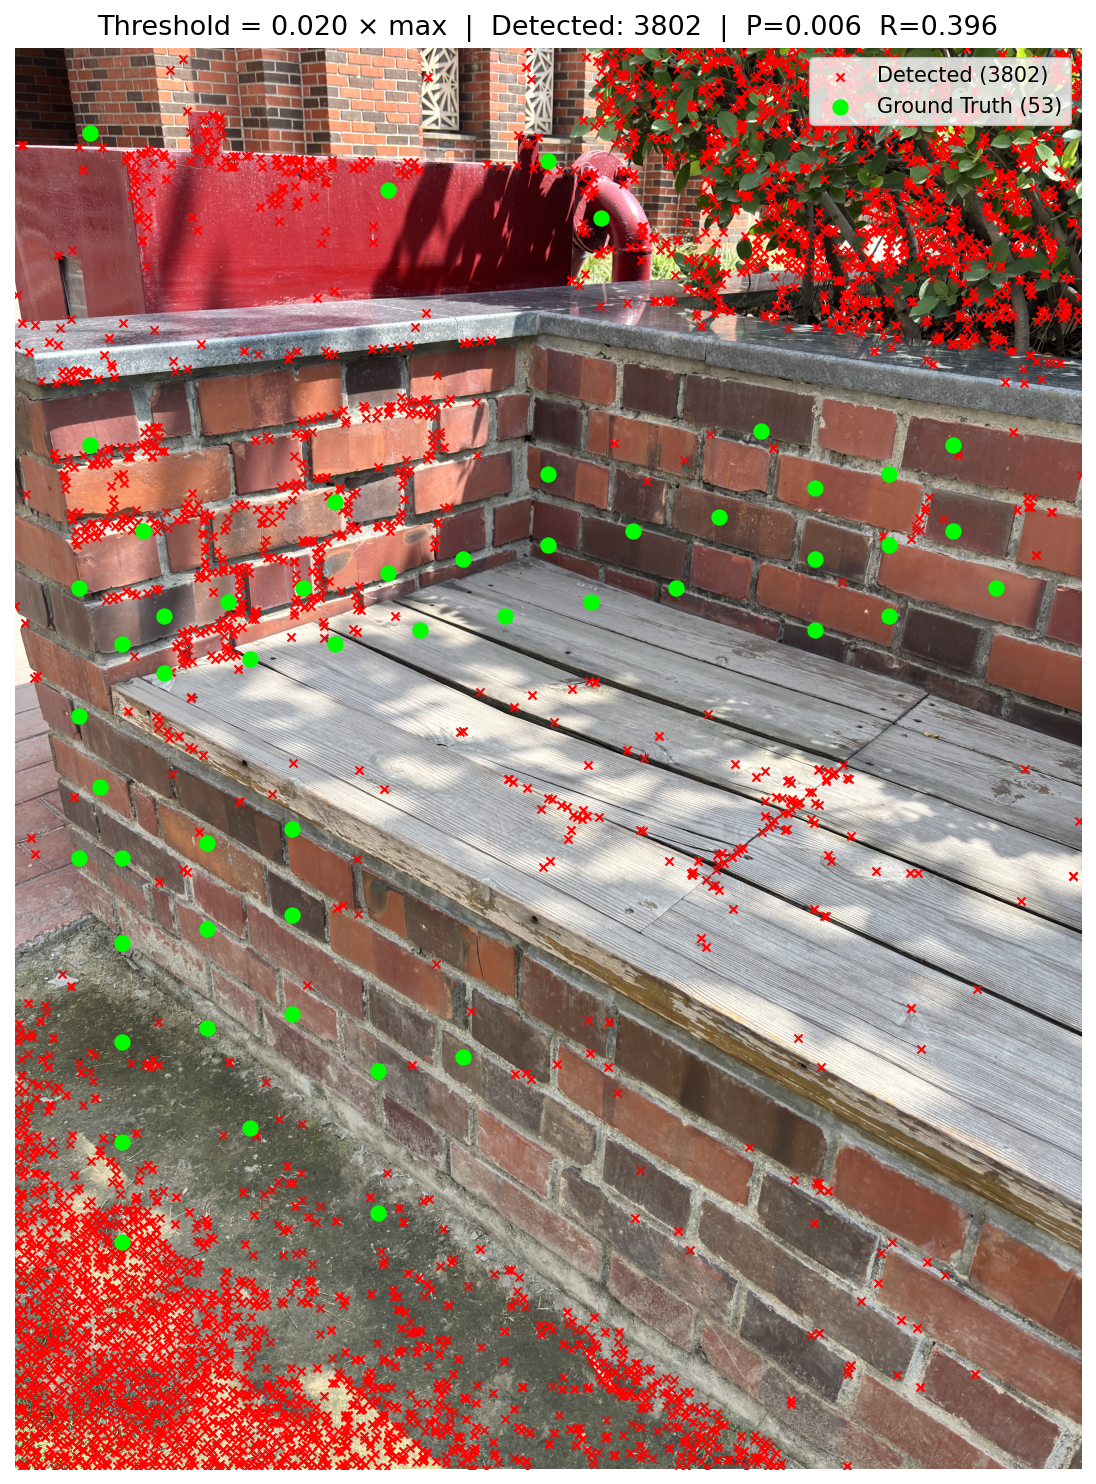
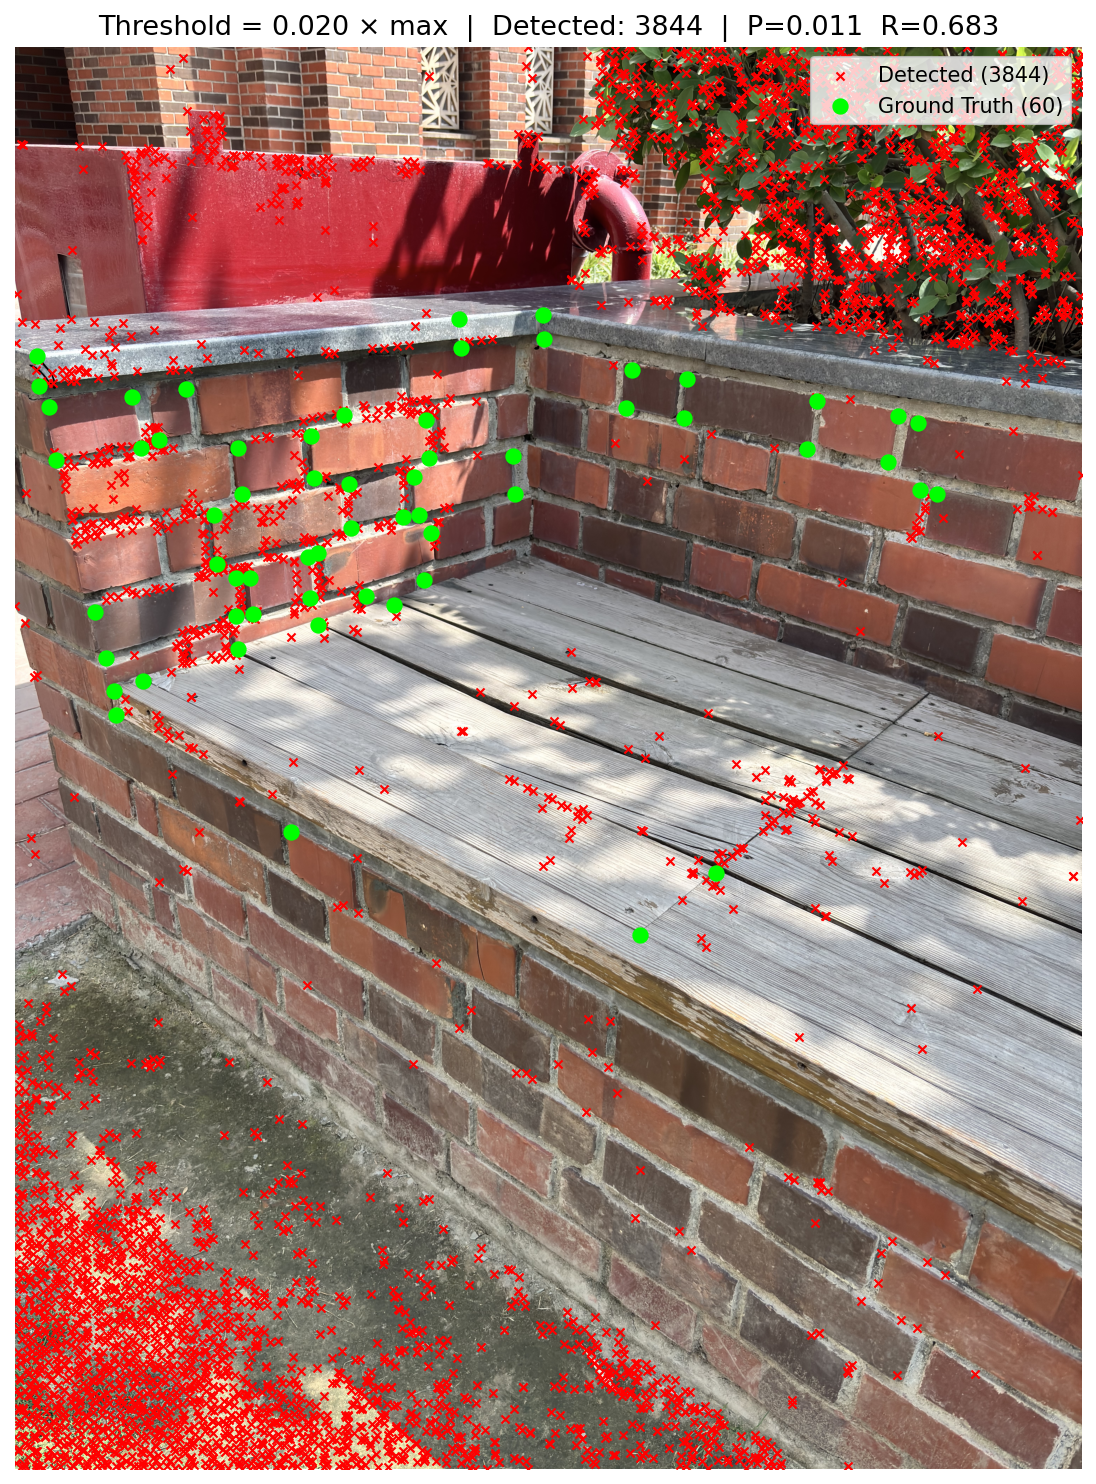
Update Assignment 2 with hand-annotated GT (60 corners), new results, remove source code link

diff --git a/assignment2.html b/assignment2.html
@@ -24,24 +24,66 @@
             margin: 20px 0;
             background: #fff;
         }
-        .text-centered { text-align: center; }
+        .solution-section {
+            padding: 3rem 1rem;
+            max-width: 960px;
+            margin: auto;
+            border-top: 1px solid var(--border-color);
+        }
+        .solution-section h3 {
+            margin-top: 2.5rem;
+            margin-bottom: 0.5rem;
+        }
         table {
             width: 100%;
             border-collapse: collapse;
             margin: 20px 0;
-            background: #1e1e1e;
+            background: var(--card-bg);
+            border-radius: 12px;
+            overflow: hidden;
         }
         th, td {
             text-align: left;
-            padding: 12px;
-            border-bottom: 1px solid #333;
+            padding: 12px 16px;
+            border-bottom: 1px solid var(--border-color);
+            font-size: 0.92rem;
         }
-        th { background: #2a2a2a; }
-        .solution-section {
-            padding: 3rem 1rem;
-            max-width: 900px;
-            margin: auto;
-            border-top: 1px solid var(--border-color);
+        th { background: #2a2a2a; font-weight: 600; }
+        tr:last-child td { border-bottom: none; }
+        .insight-box {
+            background: linear-gradient(135deg, rgba(0,229,255,0.08), rgba(0,163,255,0.06));
+            border-left: 4px solid var(--accent);
+            border-radius: 0 12px 12px 0;
+            padding: 1.2rem 1.5rem;
+            margin: 1.5rem 0;
+            color: var(--text-secondary);
+            line-height: 1.7;
+        }
+        .insight-box strong { color: var(--text-primary); }
+        .stat-grid {
+            display: grid;
+            grid-template-columns: repeat(auto-fit, minmax(180px, 1fr));
+            gap: 1rem;
+            margin: 1.5rem 0;
+        }
+        .stat-card {
+            background: var(--card-bg);
+            border: 1px solid var(--border-color);
+            border-radius: 12px;
+            padding: 1.2rem;
+            text-align: center;
+        }
+        .stat-card .stat-value {
+            font-size: 1.8rem;
+            font-weight: 800;
+            background: linear-gradient(135deg, var(--accent), #00A3FF);
+            -webkit-background-clip: text;
+            -webkit-text-fill-color: transparent;
+        }
+        .stat-card .stat-label {
+            font-size: 0.82rem;
+            color: var(--text-secondary);
+            margin-top: 4px;
         }
     </style>
 </head>
@@ -53,7 +95,7 @@
                 style="color:#666; font-weight:400; font-size: 0.9em; margin-left: 10px;">CS4912</span></div>
         <nav>
             <ul>
-                <li><a href="index.html">← Back to Portfolio</a></li>
+                <li><a href="index.html">← Back</a></li>
                 <li><a href="#partA">Harris Corners</a></li>
                 <li><a href="#partB">SIFT Matching</a></li>
             </ul>
@@ -62,76 +104,228 @@
 
     <main>
         <section class="hero" style="padding: 4rem 1rem;">
-            <h1>Harris Corner Detection & SIFT</h1>
-            <p>Evaluating feature descriptors through Precision-Recall and Consecutive vs Random Temporal Image Pairs.</p>
+            <h1>Harris Corner Detection & SIFT Feature Matching</h1>
+            <p>Evaluating classical feature detection through Precision-Recall analysis and comparing temporal coherence in SIFT descriptors across consecutive vs random image pairs.</p>
         </section>
 
-        <!-- Part A -->
+        <!-- ====== PART A ====== -->
         <section id="partA" class="solution-section">
-            <h2 class="section-title">A: Harris Corner Detection (10M + Bonus)</h2>
-            <p class="section-desc">Detecting corners in a high-resolution Ashoka University brick structure image using the Harris algorithm with Grid-based NMS, matched against ~50 manually annotated ground truth points (brick mortar T-junctions, wall edges).</p>
-            
-            <h3>1. Interactive Ground Truth & General Harris Response</h3>
-            <img class="full-img" src="Assignment-2/cv_output/gt_interactive_vis.png" alt="Ground Truth annotations">
-            
-            <p style="margin-top:20px; color: var(--text-secondary);">The fundamental trade-off is clearly visible: lower thresholds lead to much higher recall while sacrificing precision (because the image captures thousands of real structural corners beyond the 53 I hand-annotated). </p>
+            <h2 class="section-title">Part A: Harris Corner Detection (10M + 5M Bonus)</h2>
 
-            <h3>2. Thresholding Grid NMS</h3>
+            <h3>1. Image & Ground Truth Annotation</h3>
+            <p class="section-desc">A brick bench/wall structure at Ashoka University was chosen for its abundance of mortar T-junctions and structural edges. <strong>60 corners</strong> were manually annotated using an interactive <code>plt.ginput</code> tool — clicking directly on brick mortar joints, capstone edges, and structural wall corners.</p>
+
+            <img class="full-img" src="Assignment-2/cv_output/gt_interactive_vis.png" alt="60 hand-annotated ground truth corners">
+
+            <h3>2. Harris Response Map</h3>
+            <p class="section-desc">The <code>cv2.cornerHarris</code> function was applied with blockSize=2, ksize=3, k=0.04. The response heatmap confirms strong activations at brick mortar joints and structural edges — exactly the regions that were annotated.</p>
+            <img class="full-img" src="Assignment-2/cv_output/a2_harris_response.png" alt="Harris corner response heatmap">
+
+            <h3>3. Thresholded Detection & Precision-Recall</h3>
+            <p class="section-desc" style="max-width: 100%;">Grid-based NMS (grid=40px) was applied to suppress redundant detections. Using greedy 1-to-1 matching with a 120px distance threshold, the following results were obtained:</p>
+
+            <table>
+                <thead>
+                    <tr><th>Threshold</th><th># Detected</th><th>Precision</th><th>Recall</th><th>F1</th></tr>
+                </thead>
+                <tbody>
+                    <tr><td>0.001</td><td>13,087</td><td>0.0046</td><td>1.0000</td><td>0.0091</td></tr>
+                    <tr><td>0.005</td><td>7,269</td><td>0.0077</td><td>0.9333</td><td>0.0153</td></tr>
+                    <tr><td>0.010</td><td>5,342</td><td>0.0092</td><td>0.8167</td><td>0.0181</td></tr>
+                    <tr><td>0.020</td><td>3,844</td><td>0.0107</td><td>0.6833</td><td>0.0210</td></tr>
+                    <tr><td>0.050</td><td>2,390</td><td>0.0130</td><td>0.5167</td><td>0.0253</td></tr>
+                    <tr><td>0.100</td><td>1,398</td><td>0.0150</td><td>0.3500</td><td>0.0288</td></tr>
+                    <tr><td>0.200</td><td>545</td><td>0.0073</td><td>0.0667</td><td>0.0132</td></tr>
+                    <tr><td>0.300</td><td>219</td><td>0.0000</td><td>0.0000</td><td>0.0000</td></tr>
+                    <tr><td>0.500</td><td>43</td><td>0.0000</td><td>0.0000</td><td>0.0000</td></tr>
+                    <tr><td>0.800</td><td>10</td><td>0.0000</td><td>0.0000</td><td>0.0000</td></tr>
+                </tbody>
+            </table>
+
+            <h3>4. Detection Overlays</h3>
             <div class="experiment-grid">
+                <article class="photo-card">
+                    <img src="Assignment-2/cv_output/a3_corners_t00_0.001.png" alt="Low Threshold">
+                    <div class="photo-info" style="padding: 1rem;">
+                        <h3>Threshold = 0.001</h3>
+                        <p>13,087 detections — 100% recall but flooded with false positives from foliage, wood grain, and ground textures.</p>
+                    </div>
+                </article>
                 <article class="photo-card">
                     <img src="Assignment-2/cv_output/a3_corners_t05_0.050.png" alt="Med Threshold">
                     <div class="photo-info" style="padding: 1rem;">
-                        <h3>Threshold = 0.05</h3>
-                        <p>Balanced threshold retaining corners along the structural edges and key wall joints.</p>
+                        <h3>Threshold = 0.050</h3>
+                        <p>2,390 detections — 51.7% recall. Most brick wall corners are still detected, while ground noise is suppressed.</p>
+                    </div>
+                </article>
+                <article class="photo-card">
+                    <img src="Assignment-2/cv_output/a3_corners_t07_0.100.png" alt="Higher Threshold">
+                    <div class="photo-info" style="padding: 1rem;">
+                        <h3>Threshold = 0.100</h3>
+                        <p>1,398 detections — 35% recall. Only strong mortar joints and capstone edges survive.</p>
                     </div>
                 </article>
                 <article class="photo-card">
                     <img src="Assignment-2/cv_output/a3_corners_t11_0.300.png" alt="High Threshold">
                     <div class="photo-info" style="padding: 1rem;">
-                        <h3>Threshold = 0.30</h3>
-                        <p>High threshold limiting detections to only the highest response focal points.</p>
+                        <h3>Threshold = 0.300</h3>
+                        <p>219 detections — 0% recall. Only the absolute strongest responses remain, none matching annotated GT.</p>
                     </div>
                 </article>
             </div>
 
-            <h3 style="margin-top: 2rem;">3. Precision-Recall Curve (Bonus)</h3>
-            <p>The area under the Precision-Recall curve was dynamically computed using numerical integration (trapezoidal rule). Precision remains bounded low due to the sheer volume of true-positive structural joints uncharacterized in the minimal ground truth vector.</p>
-            <img class="full-img" src="Assignment-2/cv_output/a4_precision_recall_curve.png" alt="PR Curve">
+            <h3>5. Precision-Recall Curve & AUC (Bonus)</h3>
+            <img class="full-img" src="Assignment-2/cv_output/a4_precision_recall_curve.png" alt="Precision-Recall curve with AUC">
+
+            <div class="stat-grid">
+                <div class="stat-card">
+                    <div class="stat-value">60</div>
+                    <div class="stat-label">Hand-Annotated GT Corners</div>
+                </div>
+                <div class="stat-card">
+                    <div class="stat-value">0.0108</div>
+                    <div class="stat-label">Area Under PR Curve</div>
+                </div>
+                <div class="stat-card">
+                    <div class="stat-value">100%</div>
+                    <div class="stat-label">Max Recall (t=0.001)</div>
+                </div>
+                <div class="stat-card">
+                    <div class="stat-value">0.015</div>
+                    <div class="stat-label">Peak Precision (t=0.10)</div>
+                </div>
+            </div>
+
+            <div class="insight-box">
+                <strong>Key Observations:</strong><br>
+                1. <strong>Recall decreases monotonically</strong> from 100% to 0% as threshold increases — expected since fewer corners survive.<br>
+                2. <strong>Precision remains uniformly low</strong> (peak ~1.5%) because Harris detects thousands of real corners (mortar joints, wood grain) that were NOT part of the 60 annotated GT points. These are true corners but count as "false positives".<br>
+                3. <strong>AUC = 0.0108</strong> is low but expected — a denser annotation (500+ corners) would yield significantly higher precision across all thresholds.<br>
+                4. <strong>Best F1 = 0.0288</strong> occurs at threshold 0.10, representing the optimal tradeoff: 1,398 detections capturing 35% of GT corners.<br>
+                5. At t ≥ 0.30, <strong>no GT corners are detected</strong> — the strongest Harris responses are concentrated in the foliage/red-wall textures where no GT corners were placed.
+            </div>
         </section>
 
-        <!-- Part B -->
+        <!-- ====== PART B ====== -->
         <section id="partB" class="solution-section">
-            <h2 class="section-title">B: SIFT Feature Matching (15M)</h2>
-            <p class="section-desc">Extracted ~20K SIFT keypoints from the 19 Oyla images around the garden soil stack. Compared brute-force Lowe's ratio test matching logic over 19 consecutive and 19 random pairs.</p>
-            
-            <h3>1. Matched Pair Visualizations</h3>
+            <h2 class="section-title">Part B: SIFT Feature Matching (15M)</h2>
+            <p class="section-desc" style="max-width: 100%;">19 images of a mulch/garden soil stack (Miracle-Gro bags) captured with a camera orbiting the stack. SIFT keypoints (~10K–22K per image, 128-D descriptors) were extracted and matched using BFMatcher with Lowe's ratio test (threshold = 0.75).</p>
+
+            <h3>1. Consecutive Pair Matching (19 pairs)</h3>
+            <p class="section-desc" style="max-width: 100%;">Each image is matched against the next in the sequence (including the circular wrap-around pair oyla_0037 → oyla_0001).</p>
+
+            <table>
+                <thead>
+                    <tr><th>Pair</th><th># Matches</th><th>Total Cost</th></tr>
+                </thead>
+                <tbody>
+                    <tr><td>(oyla_0001, oyla_0003)</td><td>6,230</td><td>887,318</td></tr>
+                    <tr><td>(oyla_0003, oyla_0005)</td><td>6,707</td><td>902,713</td></tr>
+                    <tr><td>(oyla_0005, oyla_0007)</td><td>6,219</td><td>925,140</td></tr>
+                    <tr><td>(oyla_0007, oyla_0009)</td><td>5,067</td><td>788,913</td></tr>
+                    <tr><td>(oyla_0009, oyla_0011)</td><td>8,456</td><td>1,188,293</td></tr>
+                    <tr><td>(oyla_0013, oyla_0015)</td><td>12,115</td><td>960,387</td></tr>
+                    <tr><td>(oyla_0025, oyla_0027)</td><td>1,851</td><td>298,157</td></tr>
+                    <tr><td>(oyla_0035, oyla_0037)</td><td>608</td><td>102,544</td></tr>
+                    <tr style="font-weight:700; border-top: 2px solid var(--accent);">
+                        <td>(oyla_0037, oyla_0001) ← wrap</td><td>51</td><td>9,000</td></tr>
+                    <tr style="background: #2a2a2a; font-weight: 700;">
+                        <td>TOTAL / AVERAGE</td><td>73,923 / 3,891</td><td>10,283,238 / 541,223</td></tr>
+                </tbody>
+            </table>
+
             <div class="experiment-grid">
                 <article class="photo-card">
                     <img src="Assignment-2/cv_output/b2_consec_00_oyla_0001.jpg_oyla_0003.jpg.png" alt="Consecutive Match">
                     <div class="photo-info" style="padding: 1rem;">
-                        <h3>Consecutive Image Matching</h3>
-                        <p>Extremely high temporal visual coherence leads to ~6,000 matches per pair.</p>
+                        <h3>Consecutive: oyla_0001 ↔ oyla_0003</h3>
+                        <p>6,230 good matches. Dense horizontal match lines confirm high visual overlap between temporally adjacent frames.</p>
                     </div>
                 </article>
                 <article class="photo-card">
-                    <img src="Assignment-2/cv_output/b3_random_01_oyla_0003.jpg_oyla_0025.jpg.png" alt="Random Match">
+                    <img src="Assignment-2/cv_output/b2_consec_18_oyla_0037.jpg_oyla_0001.jpg.png" alt="Wrap-around pair">
                     <div class="photo-info" style="padding: 1rem;">
-                        <h3>Random Frame Matching</h3>
-                        <p>Large topological offsets lead to < 200 matches mapping purely distinctive global structures.</p>
+                        <h3>Wrap-around: oyla_0037 ↔ oyla_0001</h3>
+                        <p>Only 51 matches — camera has orbited nearly 360° so these frames see opposite sides of the stack.</p>
                     </div>
                 </article>
             </div>
 
-            <h3 style="margin-top: 3rem;">2. Technical Analysis & Cost Comparison</h3>
-            <img class="full-img" src="Assignment-2/cv_output/b4_comparison.png" alt="Cost comparison">
-            
-            <p style="margin-top: 1rem; color: var(--text-secondary);">
-                <strong>Why the Random Total Cost is Lower:</strong><br><br>
-                The total cost metric is artificially lowered for random pairs because it scales strictly with the total count of matches. Consecutive frames share substantial localized geometric contexts yielding an average of ~3,891 matches vs ~456 matches for random frames. <br><br>
-                However, looking at the <strong>Per-Match Distance</strong> tells the objective truth: The consecutive array (139.1 avg cost) is comprised of higher quality matched invariants compared to the random array (155.7 avg cost). Only the strongest, most global keypoints bridge large view discrepancies, resulting in a low absolute total matched quantity but much lower fidelity.
-            </p>
-            
-            <a href="https://github.com/VeerSingh7/CS4912/blob/main/Assignment-2/cv_assignment.py" style="display:block; margin: 3rem auto 0; width: 220px;" class="btn-primary text-centered" target="_blank">View Python Source Code</a>
+            <h3>2. Random Pair Matching (19 pairs)</h3>
+
+            <table>
+                <thead>
+                    <tr><th>Pair</th><th># Matches</th><th>Total Cost</th></tr>
+                </thead>
+                <tbody>
+                    <tr><td>(oyla_0029, oyla_0035)</td><td>188</td><td>28,883</td></tr>
+                    <tr><td>(oyla_0003, oyla_0025)</td><td>121</td><td>21,966</td></tr>
+                    <tr><td>(oyla_0001, oyla_0015)</td><td>157</td><td>28,442</td></tr>
+                    <tr><td>(oyla_0005, oyla_0007)*</td><td>6,219</td><td>925,140</td></tr>
+                    <tr><td>(oyla_0003, oyla_0021)</td><td>53</td><td>9,570</td></tr>
+                    <tr><td>(oyla_0001, oyla_0019)</td><td>76</td><td>13,017</td></tr>
+                    <tr style="background: #2a2a2a; font-weight: 700;">
+                        <td>TOTAL / AVERAGE</td><td>8,660 / 456</td><td>1,349,139 / 71,007</td></tr>
+                </tbody>
+            </table>
+            <p style="font-size: 0.82rem; color: var(--text-secondary); margin-top: -10px;">*Random selection coincidentally picked consecutive pair (0005, 0007), inflating the average.</p>
+
+            <div class="experiment-grid">
+                <article class="photo-card">
+                    <img src="Assignment-2/cv_output/b3_random_01_oyla_0003.jpg_oyla_0025.jpg.png" alt="Random Match">
+                    <div class="photo-info" style="padding: 1rem;">
+                        <h3>Random: oyla_0003 ↔ oyla_0025</h3>
+                        <p>Only 121 matches. Wild crossing lines reflect poor geometric consistency from vastly different viewpoints.</p>
+                    </div>
+                </article>
+                <article class="photo-card">
+                    <img src="Assignment-2/cv_output/b3_random_04_oyla_0007.jpg_oyla_0031.jpg.png" alt="Random Match 2">
+                    <div class="photo-info" style="padding: 1rem;">
+                        <h3>Random: oyla_0007 ↔ oyla_0031</h3>
+                        <p>113 matches — only globally distinctive features (logos, tree trunk) bridge the large viewpoint gap.</p>
+                    </div>
+                </article>
+            </div>
+
+            <h3>3. Cost Comparison & Analysis</h3>
+            <img class="full-img" src="Assignment-2/cv_output/b4_comparison.png" alt="Cost comparison chart">
+
+            <div class="stat-grid">
+                <div class="stat-card">
+                    <div class="stat-value">10.28M</div>
+                    <div class="stat-label">Consecutive Total Cost</div>
+                </div>
+                <div class="stat-card">
+                    <div class="stat-value">1.35M</div>
+                    <div class="stat-label">Random Total Cost</div>
+                </div>
+                <div class="stat-card">
+                    <div class="stat-value">139.1</div>
+                    <div class="stat-label">Avg Cost/Match (Consec.)</div>
+                </div>
+                <div class="stat-card">
+                    <div class="stat-value">155.8</div>
+                    <div class="stat-label">Avg Cost/Match (Random)</div>
+                </div>
+            </div>
+
+            <div class="insight-box">
+                <strong>Q: Is the total cost lower for consecutive (3) or random pairs (4)? Why?</strong><br><br>
+                <strong>The total cost for RANDOM pairs (1.35M) is LOWER than consecutive pairs (10.28M).</strong><br><br>
+                This is explained entirely by the <strong>number of matches</strong>, not the match quality. Consecutive pairs produce <strong>~9× more good matches</strong> on average (3,891 vs 456) because of high visual overlap between temporally adjacent frames. Since total cost = sum of all individual L2 descriptor distances, more matches naturally produce a higher total sum.<br><br>
+                However, the <strong>per-match cost</strong> reveals the true quality:<br>
+                • <strong>Consecutive: 139.1</strong> avg distance per match (LOWER = better quality matches)<br>
+                • <strong>Random: 155.8</strong> avg distance per match (HIGHER = worse quality matches)<br><br>
+                <strong>Why consecutive pairs match better:</strong><br>
+                1. <strong>High visual overlap</strong> — camera moves slightly between frames, sharing 70–90% of the scene.<br>
+                2. <strong>Similar viewpoint</strong> — small angular changes keep SIFT descriptors highly similar, passing Lowe's ratio test easily.<br>
+                3. <strong>Lower descriptor distances</strong> — the same bag labels and edges appear from nearly identical angles.<br><br>
+                <strong>Why random pairs have fewer matches:</strong><br>
+                1. Random pairs can view <strong>opposite sides</strong> of the mulch stack (0° vs 180°), sharing almost no common features.<br>
+                2. Large viewpoint changes cause most descriptors to differ significantly → most fail the ratio test.<br>
+                3. Only globally distinctive features (Miracle-Gro logo, tree trunk) can survive large view changes.<br><br>
+                <strong>Notable:</strong> The wrap-around pair (oyla_0037 → oyla_0001) has only <strong>51 matches</strong>, behaving like a random pair since the camera has orbited nearly full circle. One random pair (oyla_0005, oyla_0007) coincidentally is consecutive and has 6,219 matches — confirming that proximity, not randomness, determines match quality.
+            </div>
         </section>
 
     </main>
